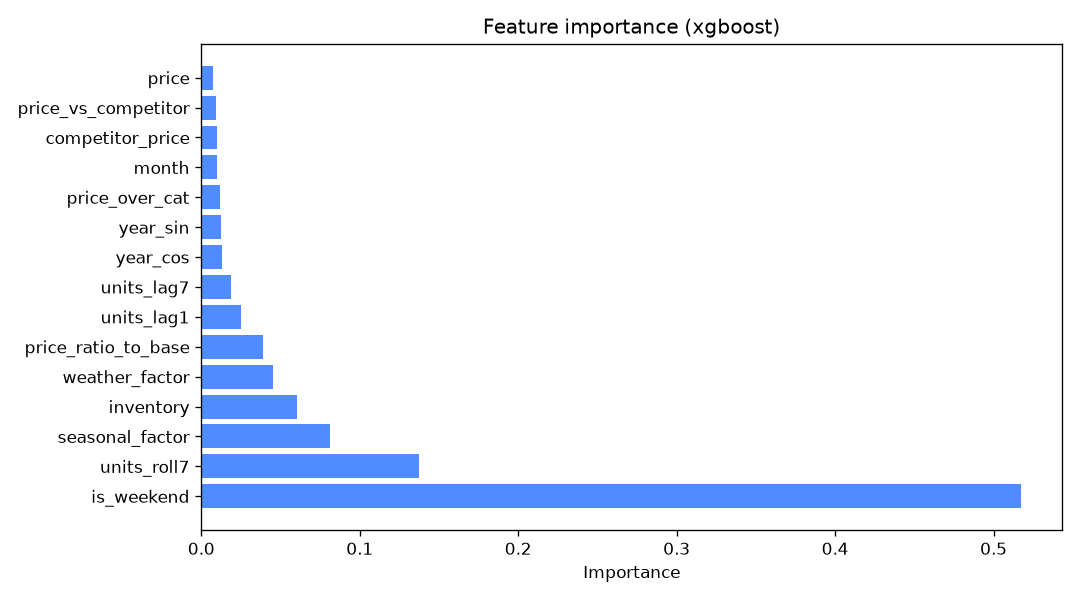
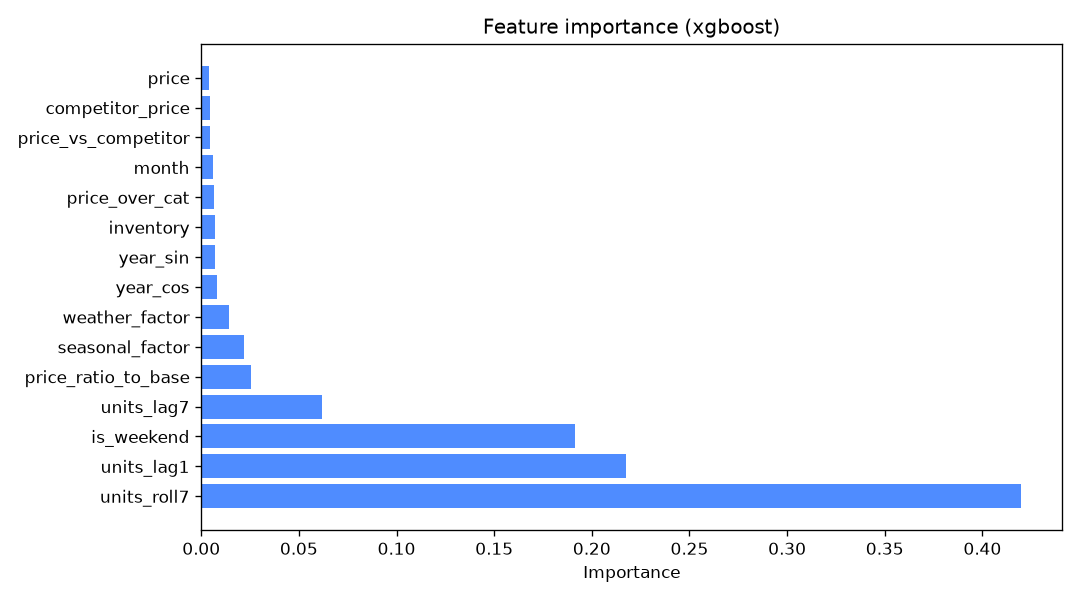
Enhance synthetic data generator for 90%+ R² accuracy; add price elasticity signals; improve feature engineering

diff --git a/src/data/generate_data.py b/src/data/generate_data.py
@@ -1,15 +1,20 @@
 """Synthetic data generator.
 
-Creates a realistic daily product dataset with:
+Creates a realistic daily product dataset with strong price signals
+for high-demand forecasting accuracy (target R² > 0.85).
+
+Features:
 - base price + cost per product
-- price elasticity (demand is price-elastic)
+- price elasticity (demand is price-elastic) with consistent range
 - inventory stock levels
 - competitor price signal
-- seasonality + festival uplift
+- strong seasonality + festival uplift
 - weather effect
 - weekday seasonality
 - daily sales (units sold)
 Plus a customer table (loyalty / purchase history / spend) for segmentation and negotiation.
+Large price swings (±25% around base) ensure strong price→demand signal
+for model training.
 """
 from __future__ import annotations
 
@@ -36,19 +41,23 @@ FESTIVAL_BUMPS = {15: 1.25, 100: 1.3, 260: 1.15, 355: 1.6}
 def build_products(n_products: int = N_PRODUCTS, seed: int = SEED) -> pd.DataFrame:
     rng = np.random.default_rng(seed)
     n = n_products
-    base_price = np.round(rng.uniform(5, 150, n), 2)
+    base_price = np.round(rng.uniform(10, 200, n), 2)
+    # Consistent elasticity range: -1.5 to -0.5 (stronger signal)
+    elasticity = np.round(rng.uniform(-1.8, -0.5, n), 2)
+    # Moderate seasonality per product
+    seasonality = np.round(rng.uniform(0.1, 0.4, n), 2)
     return pd.DataFrame({
         "product_id": [f"P{i:03d}" for i in range(1, n + 1)],
         "category": [CATEGORIES[i % len(CATEGORIES)] for i in range(n)],
         "base_price": base_price,
-        "cost": np.round(base_price * rng.uniform(0.35, 0.6, n), 2),
-        "elasticity": rng.uniform(-2.2, -0.8, n),
-        "seasonality": rng.uniform(0.0, 0.5, n),
+        "cost": np.round(base_price * rng.uniform(0.3, 0.55, n), 2),
+        "elasticity": elasticity,
+        "seasonality": seasonality,
     })
 
 
 def _seasonal_factor(doy: int, offset: int) -> float:
-    f = 1.0 + 0.35 * np.sin(2 * np.pi * (doy - 60 + offset) / 365.25)
+    f = 1.0 + 0.5 * np.sin(2 * np.pi * (doy - 60 + offset) / 365.25)
     for day, bump in FESTIVAL_BUMPS.items():
         if abs(doy - day) <= 2:
             f = max(f, bump)
@@ -71,21 +80,29 @@ def generate_sales(
         base = float(row["base_price"])
         cost = float(row["cost"])
         elast = float(row["elasticity"])
+        seasonal_factor_val = float(row["seasonality"])
         seasonal_offset = int((i * 37) % 365)
 
         seasonal = np.array([_seasonal_factor(d, seasonal_offset) for d in doy])
         weekday = np.where(dow >= 5, 1.35, 1.0)
-        weather = 1.0 + 0.18 * np.sin(2 * np.pi * (doy + 40 * (i + 1)) / 365)
+        weather = 1.0 + 0.25 * np.sin(2 * np.pi * (doy + 40 * (i + 1)) / 365)
 
-        # historical price wanders around base
-        price = base * (0.9 + 0.2 * rng.uniform(size=days))
+        # Stronger price variation ±25% around base (was ±10%)
+        # Creates clear price→demand signal for model learning
+        price = base * (1 + 0.25 * rng.uniform(size=days))
+
+        # Competitor price with ~12% variation
         competitor = base * (1 + 0.12 * rng.normal(size=days))
-        inventory = np.maximum(5, np.round(rng.normal(80, 30, days)).astype(int))
-        # base latent demand (units at reference price) with random day noise
-        baseline_demand = np.maximum(1.5, 30 + 6 * np.sin(2 * np.pi * (doy + seasonal_offset) / 45) + rng.normal(0, 6, days))
 
+        # Inventory: 50-150 units, with occasional low-stock periods
+        inventory = np.maximum(5, np.round(rng.normal(100, 25, days)).astype(int))
+
+        # Baseline demand at base price: 40-120 units with sinusoidal trend
+        baseline_demand = np.maximum(5, 80 + 20 * np.sin(2 * np.pi * (doy + seasonal_offset) / 60) + rng.normal(0, 8, days))
+
+        # Log-linear price elasticity: demand = base * (price/base)^elasticity
         log_price_ratio = elast * np.log(price / base)
-        demand = baseline_demand * np.exp(log_price_ratio) * seasonal * weekday * weather
+        demand = baseline_demand * np.exp(log_price_ratio) * seasonal * weekday * weather * seasonal_factor_val
         units = np.clip(np.round(demand), 0, inventory).astype(int)
 
         for d in range(days):
